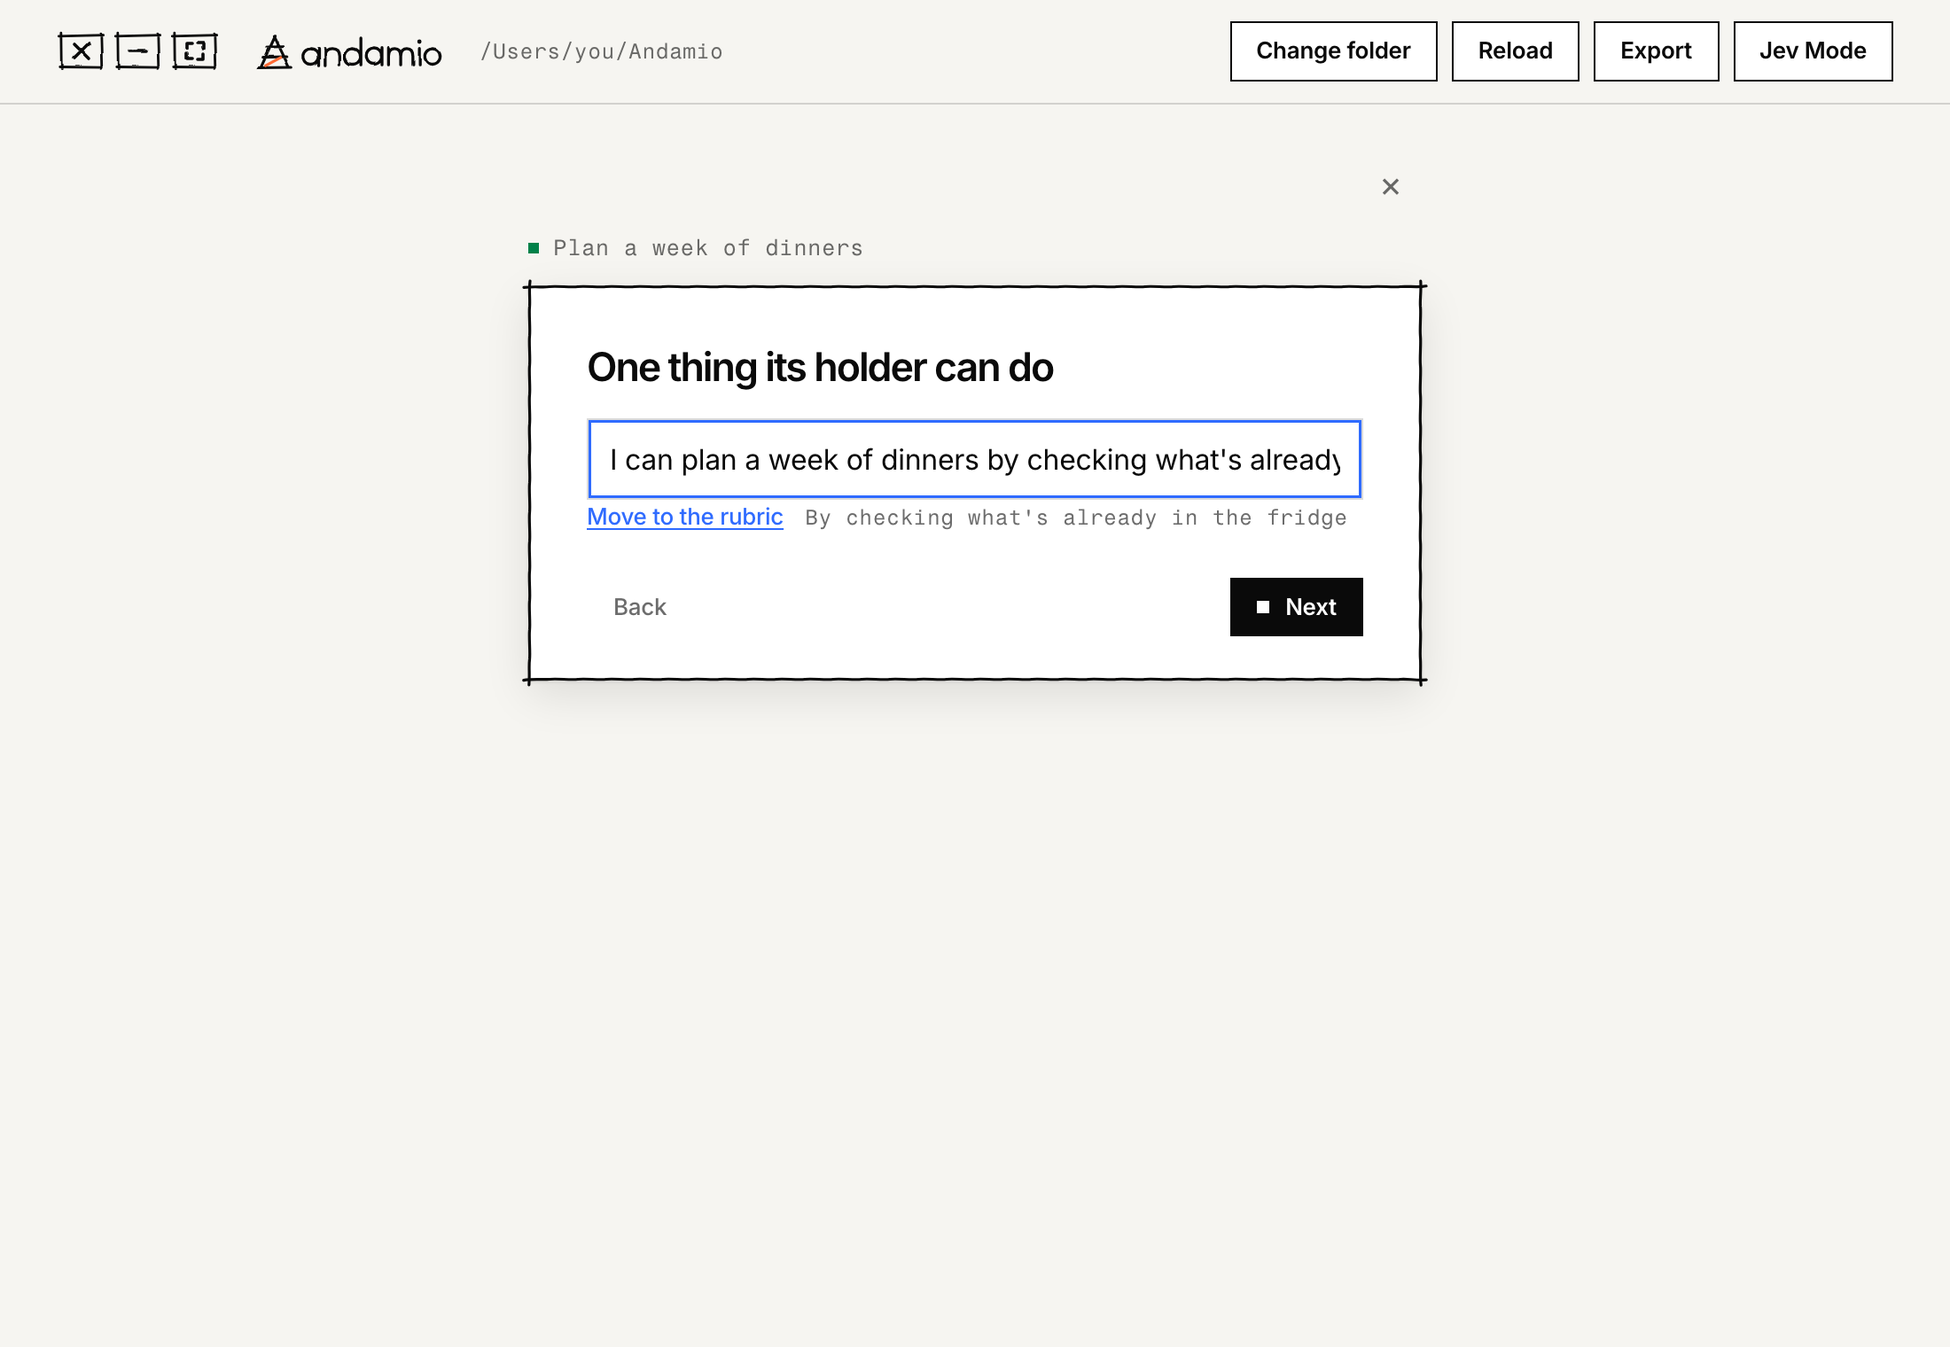
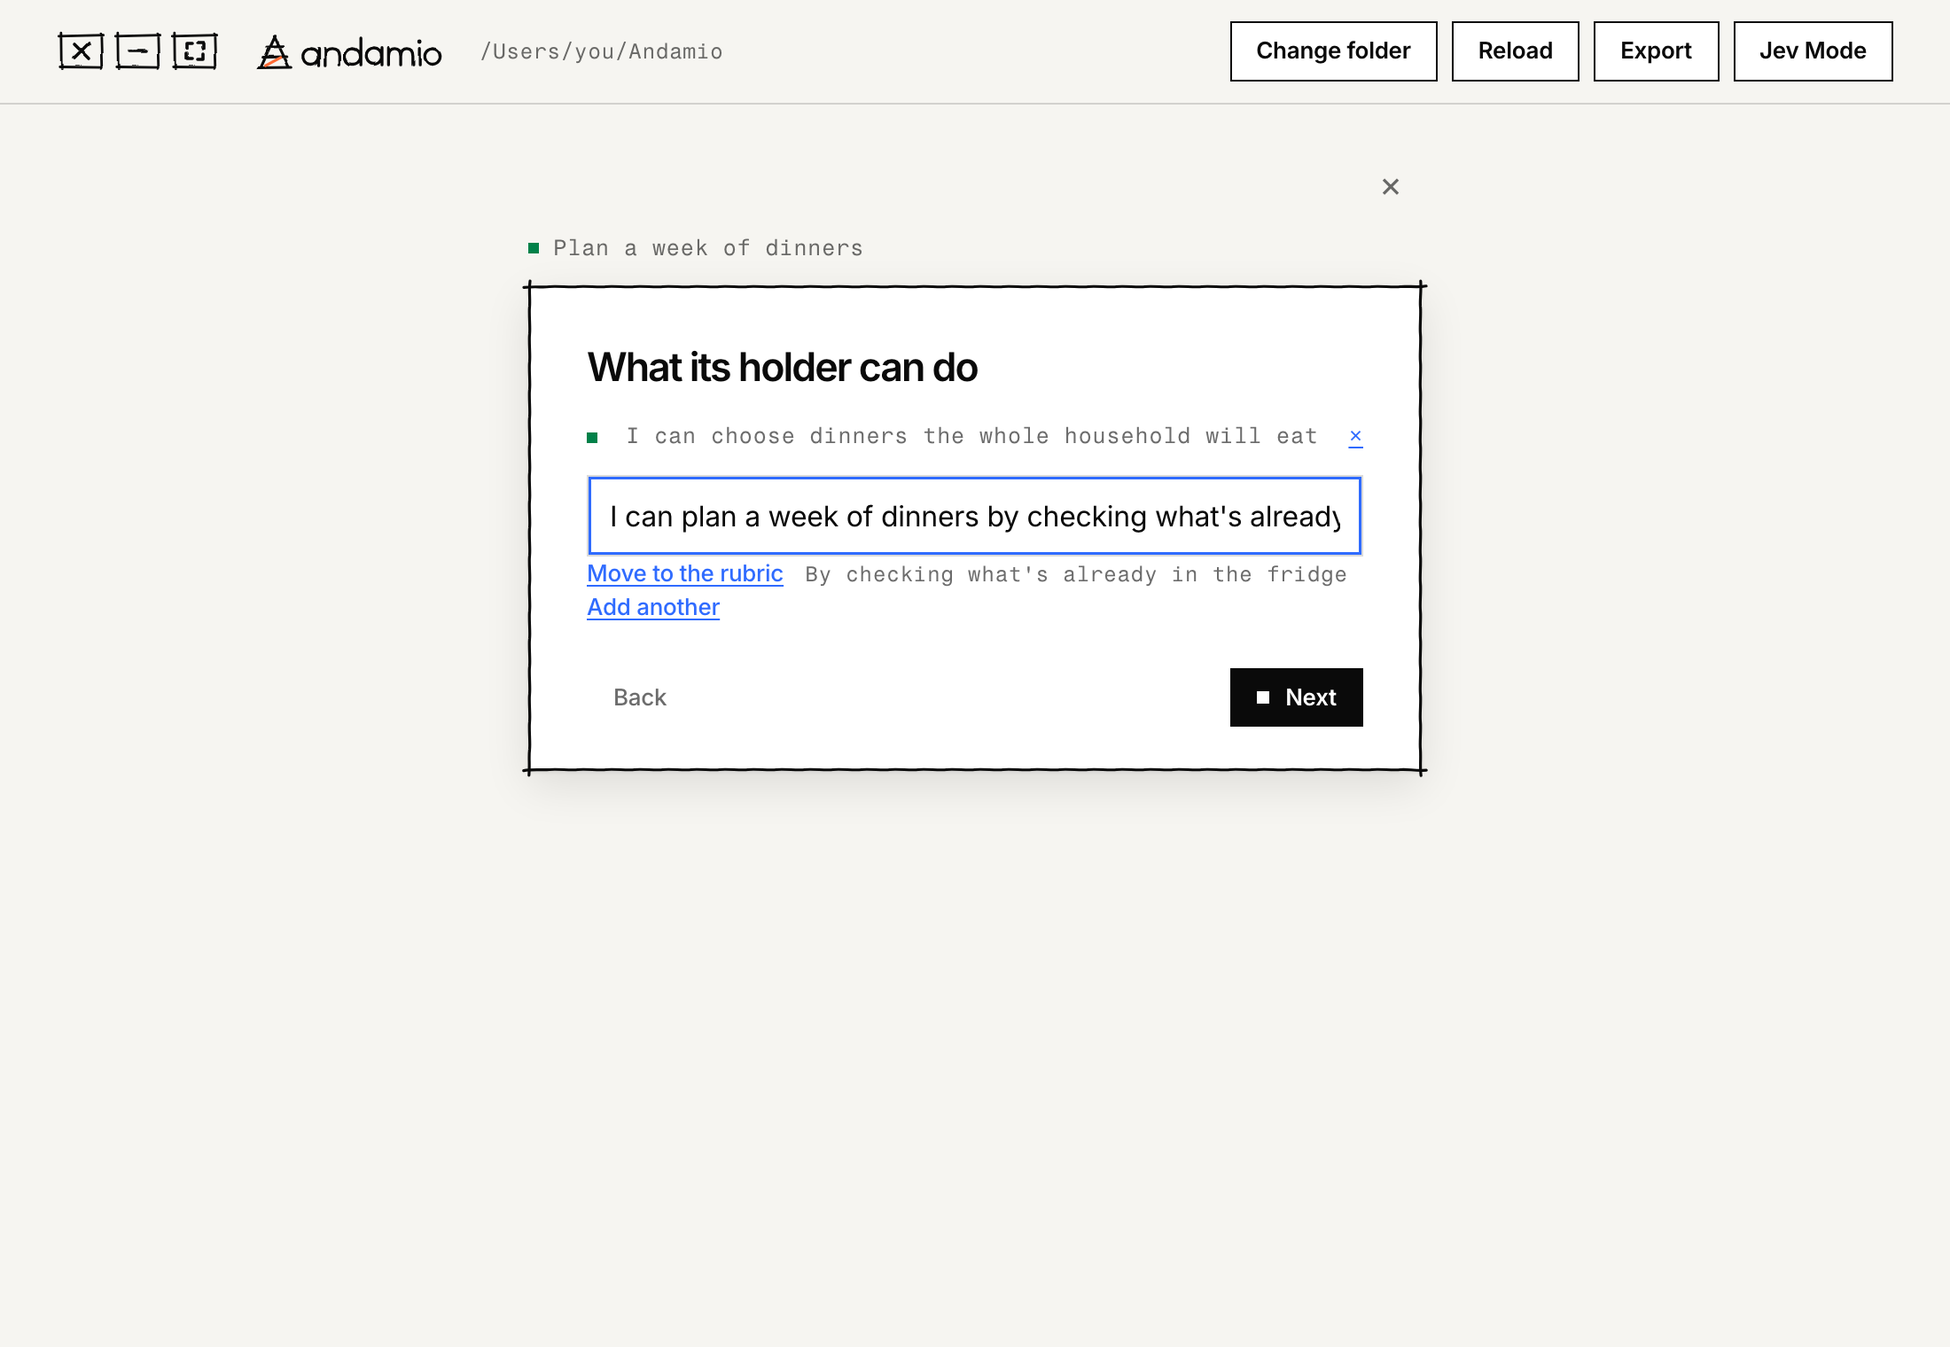
feat(credential): take several learning targets when making a badge
Build your own now asks What its holder can do and takes the targets as lines, reusing the list the badge's Learning targets part uses: Enter adds a line, Enter on an empty line moves on, and each line keeps its offer to move detail to the rubric. At least one target is required, and a line still in the box when Next is pressed counts. The trail above the task shows the target, or the count when there are several. Presets and the first test are unchanged. This reverses the decks-not-forms decision that more targets wait on the badge. The credential-target picture is reshot.

Changed region(s): [[0.2782, 0.2474, 0.7418, 0.5875]]

diff --git a/src/ui/CredentialDeck.test.tsx b/src/ui/CredentialDeck.test.tsx
@@ -26,22 +26,22 @@ async function walk(name: string, target: string, task: string) {
   await userEvent.click(await screen.findByRole("button", { name: "Build your own" }));
   await userEvent.type(await screen.findByRole("textbox", { name: "Name" }), name);
   await userEvent.click(screen.getByRole("button", { name: "Next" }));
-  await userEvent.type(screen.getByRole("textbox", { name: "Learning target" }), target);
+  await userEvent.type(screen.getByRole("textbox", { name: "New learning target" }), target);
   await userEvent.click(screen.getByRole("button", { name: "Next" }));
   if (task) await userEvent.type(screen.getByRole("textbox", { name: "Task" }), task);
 }
 
 describe("CredentialDeck", () => {
-  it("asks one thing per card: where to start, its name, one thing its holder can do, then the task", async () => {
+  it("asks one thing per card: where to start, its name, what its holder can do, then the task", async () => {
     renderApp(storageWith(), { view: "deck", deck: "credential" });
     expect(await screen.findByRole("heading", { name: "Where to start" })).toBeTruthy();
     await userEvent.click(screen.getByRole("button", { name: "Build your own" }));
     expect(await screen.findByRole("heading", { name: "What is it called" })).toBeTruthy();
     await userEvent.type(screen.getByRole("textbox", { name: "Name" }), "Code review");
     await userEvent.click(screen.getByRole("button", { name: "Next" }));
-    expect(screen.getByRole("heading", { name: "One thing its holder can do" })).toBeTruthy();
+    expect(screen.getByRole("heading", { name: "What its holder can do" })).toBeTruthy();
     expect(screen.getByRole("list", { name: "Answered" }).textContent).toContain("Code review");
-    await userEvent.type(screen.getByRole("textbox", { name: "Learning target" }), "I can find bugs");
+    await userEvent.type(screen.getByRole("textbox", { name: "New learning target" }), "I can find bugs");
     await userEvent.click(screen.getByRole("button", { name: "Next" }));
     expect(screen.getByRole("heading", { name: "The task" })).toBeTruthy();
     expect((screen.getByRole("button", { name: "Make the badge" }) as HTMLButtonElement).disabled).toBe(true);
@@ -83,12 +83,77 @@ describe("CredentialDeck", () => {
     await userEvent.click(await screen.findByRole("button", { name: "Build your own" }));
     await userEvent.type(await screen.findByRole("textbox", { name: "Name" }), "Code review");
     await userEvent.click(screen.getByRole("button", { name: "Next" }));
-    const box = screen.getByRole("textbox", { name: "Learning target" }) as HTMLInputElement;
+    const box = screen.getByRole("textbox", { name: "New learning target" }) as HTMLInputElement;
     await userEvent.type(box, "I can review a PR (tests, types, docs).");
     await userEvent.click(screen.getByRole("button", { name: "Move to the rubric" }));
     expect(box.value).toBe("I can review a PR.");
     expect(screen.getByRole("status").textContent).toBe("Moved to the rubric");
     await userEvent.click(screen.getByRole("button", { name: "Next" }));
+    await userEvent.type(screen.getByRole("textbox", { name: "Task" }), "Review the diff");
+    await userEvent.click(screen.getByRole("button", { name: "Make the badge" }));
+    await screen.findByRole("button", { name: "Test it on an agent" });
+    const [saved] = (await loadFolder(storage)).credentials;
+    expect(saved).toMatchObject({ learningTargets: ["I can review a PR."], rubric: "- Tests, types, docs" });
+  });
+
+  it("takes several targets, Enter adding each line and Enter on an empty line moving on", async () => {
+    const storage = storageWith();
+    renderApp(storage, { view: "deck", deck: "credential" });
+    await userEvent.click(await screen.findByRole("button", { name: "Build your own" }));
+    await userEvent.type(await screen.findByRole("textbox", { name: "Name" }), "Code review");
+    await userEvent.click(screen.getByRole("button", { name: "Next" }));
+    const next = () => screen.getByRole("button", { name: "Next" }) as HTMLButtonElement;
+    expect(next().disabled).toBe(true);
+    const box = screen.getByRole("textbox", { name: "New learning target" }) as HTMLInputElement;
+    await userEvent.type(box, "I can find bugs in a diff{Enter}");
+    expect(screen.getByRole("heading", { name: "What its holder can do" })).toBeTruthy();
+    expect(box.value).toBe("");
+    expect(next().disabled).toBe(false);
+    await userEvent.type(box, "I can suggest a fix{Enter}");
+    expect(within(screen.getByRole("list", { name: "Learning targets" })).getAllByRole("listitem").map((li) => li.querySelector("span")?.textContent)).toEqual([
+      "I can find bugs in a diff",
+      "I can suggest a fix",
+    ]);
+    await userEvent.type(box, "{Enter}");
+    expect(screen.getByRole("heading", { name: "The task" })).toBeTruthy();
+    expect(screen.getByRole("list", { name: "Answered" }).textContent).toContain("2 learning targets");
+    await userEvent.type(screen.getByRole("textbox", { name: "Task" }), "Review the diff");
+    await userEvent.click(screen.getByRole("button", { name: "Make the badge" }));
+    await screen.findByRole("button", { name: "Test it on an agent" });
+    const [saved] = (await loadFolder(storage)).credentials;
+    expect(saved.learningTargets).toEqual(["I can find bugs in a diff", "I can suggest a fix"]);
+  });
+
+  it("keeps a line still in the box as the last target, and a removed line goes", async () => {
+    const storage = storageWith();
+    renderApp(storage, { view: "deck", deck: "credential" });
+    await userEvent.click(await screen.findByRole("button", { name: "Build your own" }));
+    await userEvent.type(await screen.findByRole("textbox", { name: "Name" }), "Code review");
+    await userEvent.click(screen.getByRole("button", { name: "Next" }));
+    const box = screen.getByRole("textbox", { name: "New learning target" });
+    await userEvent.type(box, "I can read a diff{Enter}");
+    await userEvent.type(box, "I can find bugs{Enter}");
+    await userEvent.click(screen.getByRole("button", { name: "Remove I can read a diff" }));
+    await userEvent.type(box, "I can suggest a fix");
+    await userEvent.click(screen.getByRole("button", { name: "Next" }));
+    await userEvent.type(screen.getByRole("textbox", { name: "Task" }), "Review the diff");
+    await userEvent.click(screen.getByRole("button", { name: "Make the badge" }));
+    await screen.findByRole("button", { name: "Test it on an agent" });
+    const [saved] = (await loadFolder(storage)).credentials;
+    expect(saved.learningTargets).toEqual(["I can find bugs", "I can suggest a fix"]);
+  });
+
+  it("offers to move detail out of a target already added, and the rubric keeps it", async () => {
+    const storage = storageWith();
+    renderApp(storage, { view: "deck", deck: "credential" });
+    await userEvent.click(await screen.findByRole("button", { name: "Build your own" }));
+    await userEvent.type(await screen.findByRole("textbox", { name: "Name" }), "Code review");
+    await userEvent.click(screen.getByRole("button", { name: "Next" }));
+    await userEvent.type(screen.getByRole("textbox", { name: "New learning target" }), "I can review a PR (tests, types, docs).{Enter}");
+    await userEvent.click(screen.getByRole("button", { name: /^Move to the rubric: / }));
+    expect(within(screen.getByRole("list", { name: "Learning targets" })).getByText("I can review a PR.")).toBeTruthy();
+    await userEvent.click(screen.getByRole("button", { name: "Next" }));
+    expect(screen.getByRole("list", { name: "Answered" }).textContent).toContain("I can review a PR.");
     await userEvent.type(screen.getByRole("textbox", { name: "Task" }), "Review the diff");
     await userEvent.click(screen.getByRole("button", { name: "Make the badge" }));
     await screen.findByRole("button", { name: "Test it on an agent" });
@@ -123,7 +188,7 @@ describe("CredentialDeck", () => {
     expect(createDeck().classList.contains("pane")).toBe(false);
     expect(barActions()).toEqual(FOLDER_ACTIONS);
     await userEvent.click(screen.getByRole("button", { name: "Next" }));
-    await userEvent.type(screen.getByRole("textbox", { name: "Learning target" }), "I can find bugs");
+    await userEvent.type(screen.getByRole("textbox", { name: "New learning target" }), "I can find bugs");
     expect(createDeck().classList.contains("pane")).toBe(false);
     await userEvent.click(screen.getByRole("button", { name: "Next" }));
     expect(screen.getByRole("heading", { name: "The task" })).toBeTruthy();
@@ -140,10 +205,10 @@ describe("CredentialDeck", () => {
     await userEvent.keyboard("{Escape}");
     expect(screen.getByRole("heading", { name: "The task" })).toBeTruthy();
     await userEvent.keyboard("{Escape}");
-    expect(screen.getByRole("heading", { name: "One thing its holder can do" })).toBeTruthy();
+    expect(screen.getByRole("heading", { name: "What its holder can do" })).toBeTruthy();
     expect(barActions()).toEqual(FOLDER_ACTIONS);
     await userEvent.keyboard("{Escape}");
-    expect(screen.getByRole("heading", { name: "One thing its holder can do" })).toBeTruthy();
+    expect(screen.getByRole("heading", { name: "What its holder can do" })).toBeTruthy();
     await userEvent.click(screen.getByRole("button", { name: "Next" }));
     expect((screen.getByRole("textbox", { name: "Task" }) as HTMLTextAreaElement).value).toBe("Review the diff");
     expect(await snapshot(storage)).toEqual(before);

diff --git a/src/ui/CredentialDeck.tsx b/src/ui/CredentialDeck.tsx
@@ -1,5 +1,6 @@
 // Create a credential (U3, R9-R12, R20): where to start, then three beats of your own or
-// one card for a preset, then its badge. Nothing is written until "Make the badge". The
+// one card for a preset, then its badge. Your own takes its learning targets as lines, one
+// added on each Enter, as the badge's own targets part does. Nothing is written until "Make the badge". The
 // credential goes into the folder's first collection, or a new "My credentials" when
 // there is none (KTD6). Opened from a test that is missing its credential, it hands the
 // new one straight back to that test (AE2).
@@ -22,7 +23,8 @@ import { Deck, type Beat } from "./Deck";
 import { useNav } from "./nav";
 import type { TestPick } from "./routes";
 import { useRichDraft } from "./richDraft";
-import { CopyHelper, TargetHint, focusOnMount } from "./shared";
+import { Lines } from "./EditDecks";
+import { CopyHelper, focusOnMount } from "./shared";
 import { RichText } from "./RichText";
 import { useFolder } from "./useFolderState";
 import { useRichImages } from "./useRichImages";
@@ -35,10 +37,13 @@ export function CredentialDeck({ returnTo }: { returnTo?: TestPick }) {
   const { navigate } = useNav();
   const [start, setStart] = useState<string | null>(null);
   const [name, setName] = useState("");
-  const [target, setTarget] = useState("");
+  // The targets added so far, and the line being typed, which counts as the last one.
+  const [targets, setTargets] = useState<string[]>([]);
+  const [line, setLine] = useState("");
+  const allTargets = line.trim() ? [...targets, line.trim()] : targets;
   const taskDraft = useRichDraft("");
   const task = taskDraft.value;
-  // Detail the target check moved out of the target. There is no rubric card here, so it waits.
+  // Detail the target check moved out of a target. There is no rubric card here, so it waits.
   const [rubric, setRubric] = useState("");
   const [made, setMade] = useState<string | null>(null);
   // Set once the credential file exists, so a retry after a failed second save never makes a second one.
@@ -55,7 +60,7 @@ export function CredentialDeck({ returnTo }: { returnTo?: TestPick }) {
     slug: "",
     collectionSlug: "",
     name: name.trim(),
-    learningTargets: target.trim() ? [target.trim()] : [],
+    learningTargets: allTargets,
     task,
     rubric,
     extraSections: [],
@@ -193,22 +198,22 @@ export function CredentialDeck({ returnTo }: { returnTo?: TestPick }) {
           body: <input aria-label="Name" value={name} autoComplete="off" onChange={(e) => setName(e.target.value)} />,
         },
         {
-          id: "target",
-          title: "One thing its holder can do",
+          id: "targets",
+          title: "What its holder can do",
           forward: "Next",
-          valid: target.trim() !== "",
-          settled: target.trim(),
+          valid: allTargets.length > 0,
+          // A pane keeps its trail to one line, so several targets settle as their count.
+          settled: allTargets.length === 1 ? allTargets[0] : allTargets.length > 1 ? `${allTargets.length} learning targets` : undefined,
           body: (
-            <>
-              <input aria-label="Learning target" value={target} autoComplete="off" placeholder="I can…" onChange={(e) => setTarget(e.target.value)} />
-              <TargetHint
-                text={target}
-                onMove={(m) => {
-                  setTarget(m.target);
-                  setRubric((r) => appendToRubric(r, m.rubricLine));
-                }}
-              />
-            </>
+            <Lines
+              lines={targets}
+              onChange={setTargets}
+              line={line}
+              onLine={setLine}
+              label="Learning targets"
+              placeholder="I can…"
+              onMove={(rubricLine) => setRubric((r) => appendToRubric(r, rubricLine))}
+            />
           ),
         },
         {

diff --git a/src/shots/shots.ts b/src/shots/shots.ts
@@ -319,7 +319,8 @@ export const SHOTS: readonly Shot[] = [
     expect: { text: "Where to start" },
   },
   {
-    // The target from the old tester's sheet, whose "by" clause the app offers to move.
+    // One target added, and a second being typed: the target from the old tester's sheet,
+    // whose "by" clause the app offers to move.
     id: "credential-target",
     page: "how-to/build-a-credential",
     route: { view: "deck", deck: "credential" },
@@ -330,7 +331,10 @@ export const SHOTS: readonly Shot[] = [
       { click: { button: "Build your own" } },
       { fill: { label: "Name" }, value: "Plan a week of dinners" },
       { click: { button: "Next" } },
-      { fill: { label: "Learning target" }, value: "I can plan a week of dinners by checking what's already in the fridge" },
+      { fill: { label: "New learning target" }, value: "I can choose dinners the whole household will eat" },
+      { click: { button: "Add another" } },
+      { waitFor: { text: "I can choose dinners the whole household will eat" } },
+      { fill: { label: "New learning target" }, value: "I can plan a week of dinners by checking what's already in the fridge" },
       { waitFor: { text: "Move to the rubric" } },
     ],
   },

diff --git a/src/ui/TestDeck.test.tsx b/src/ui/TestDeck.test.tsx
@@ -239,7 +239,7 @@ describe("TestDeck", () => {
     await userEvent.click(await screen.findByRole("button", { name: "Build your own" }));
     await userEvent.type(await screen.findByRole("textbox", { name: "Name" }), "Write docs");
     await userEvent.click(screen.getByRole("button", { name: "Next" }));
-    await userEvent.type(screen.getByRole("textbox", { name: "Learning target" }), "I can explain a module");
+    await userEvent.type(screen.getByRole("textbox", { name: "New learning target" }), "I can explain a module");
     await userEvent.click(screen.getByRole("button", { name: "Next" }));
     await userEvent.type(screen.getByRole("textbox", { name: "Task" }), "Document the module");
     await userEvent.click(screen.getByRole("button", { name: "Make the badge" }));

diff --git a/src/ui/pasteImageFlows.test.tsx b/src/ui/pasteImageFlows.test.tsx
@@ -41,7 +41,7 @@ describe("pasting an image into each box (R8)", () => {
     await userEvent.click(await screen.findByRole("button", { name: "Build your own" }));
     await userEvent.type(await screen.findByRole("textbox", { name: "Name" }), "Fix the layout");
     await userEvent.click(screen.getByRole("button", { name: "Next" }));
-    await userEvent.type(screen.getByRole("textbox", { name: "Learning target" }), "I can fix a layout");
+    await userEvent.type(screen.getByRole("textbox", { name: "New learning target" }), "I can fix a layout");
     await userEvent.click(screen.getByRole("button", { name: "Next" }));
     await userEvent.type(screen.getByRole("textbox", { name: "Task" }), "Make it look like this: ");
     const name = await pasteImage("Task");

diff --git a/src/ui/videoFlows.test.tsx b/src/ui/videoFlows.test.tsx
@@ -49,7 +49,7 @@ describe("adding a video to each box (R12)", () => {
     await userEvent.click(await screen.findByRole("button", { name: "Build your own" }));
     await userEvent.type(await screen.findByRole("textbox", { name: "Name" }), "Fix the layout");
     await userEvent.click(screen.getByRole("button", { name: "Next" }));
-    await userEvent.type(screen.getByRole("textbox", { name: "Learning target" }), "I can fix a layout");
+    await userEvent.type(screen.getByRole("textbox", { name: "New learning target" }), "I can fix a layout");
     await userEvent.click(screen.getByRole("button", { name: "Next" }));
     await userEvent.type(screen.getByRole("textbox", { name: "Task" }), "Do what this shows: ");
     const name = await addVideo(storage, "Task");

diff --git a/src/ui/EditDecks.tsx b/src/ui/EditDecks.tsx
@@ -69,7 +69,7 @@ function cleanSettings(s: BadgeSettings): BadgeSettings {
  * a line with text adds it; Enter on an empty line moves the deck on. With `onMove`, the
  * lines are learning targets and each offers to move its detail to the rubric.
  */
-function Lines({
+export function Lines({
   lines,
   onChange,
   line,
